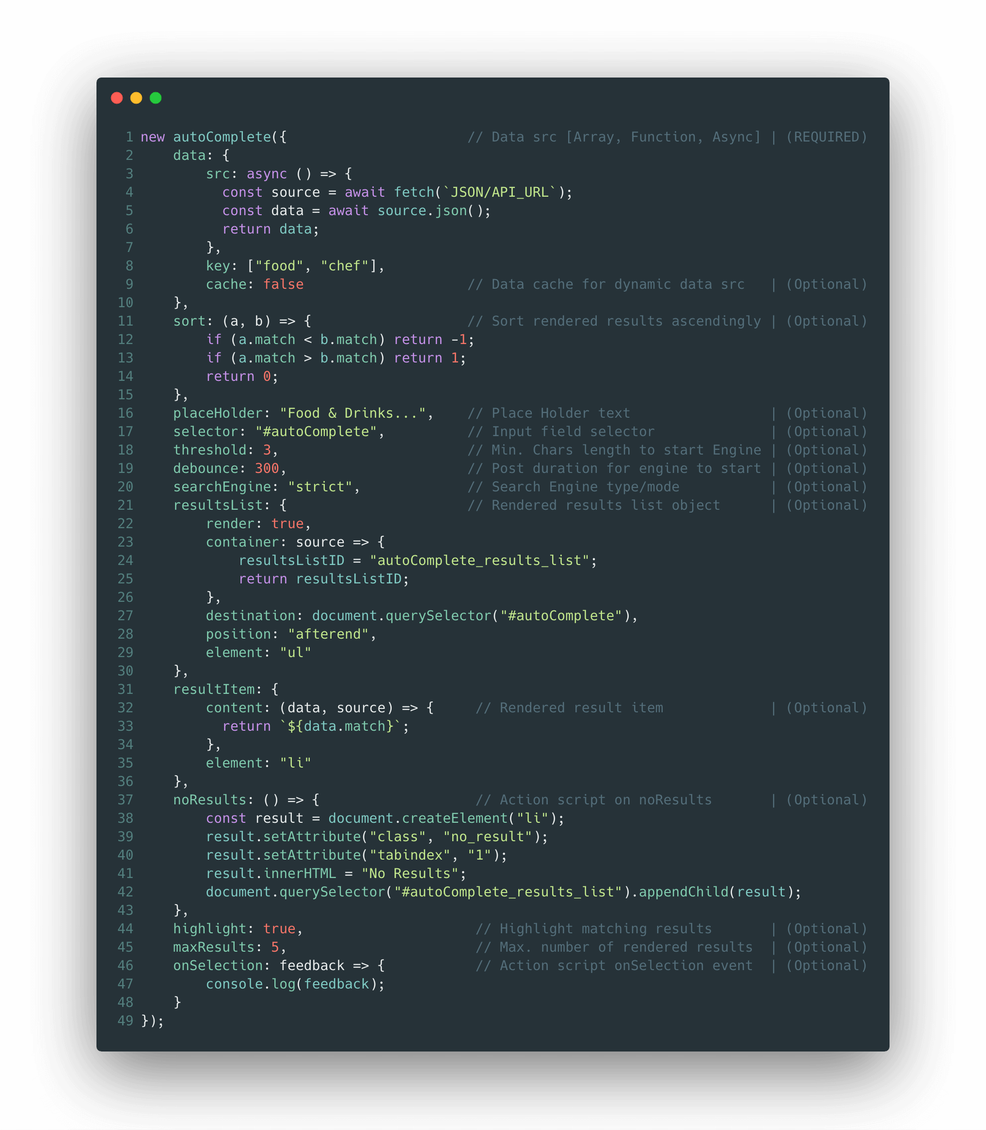
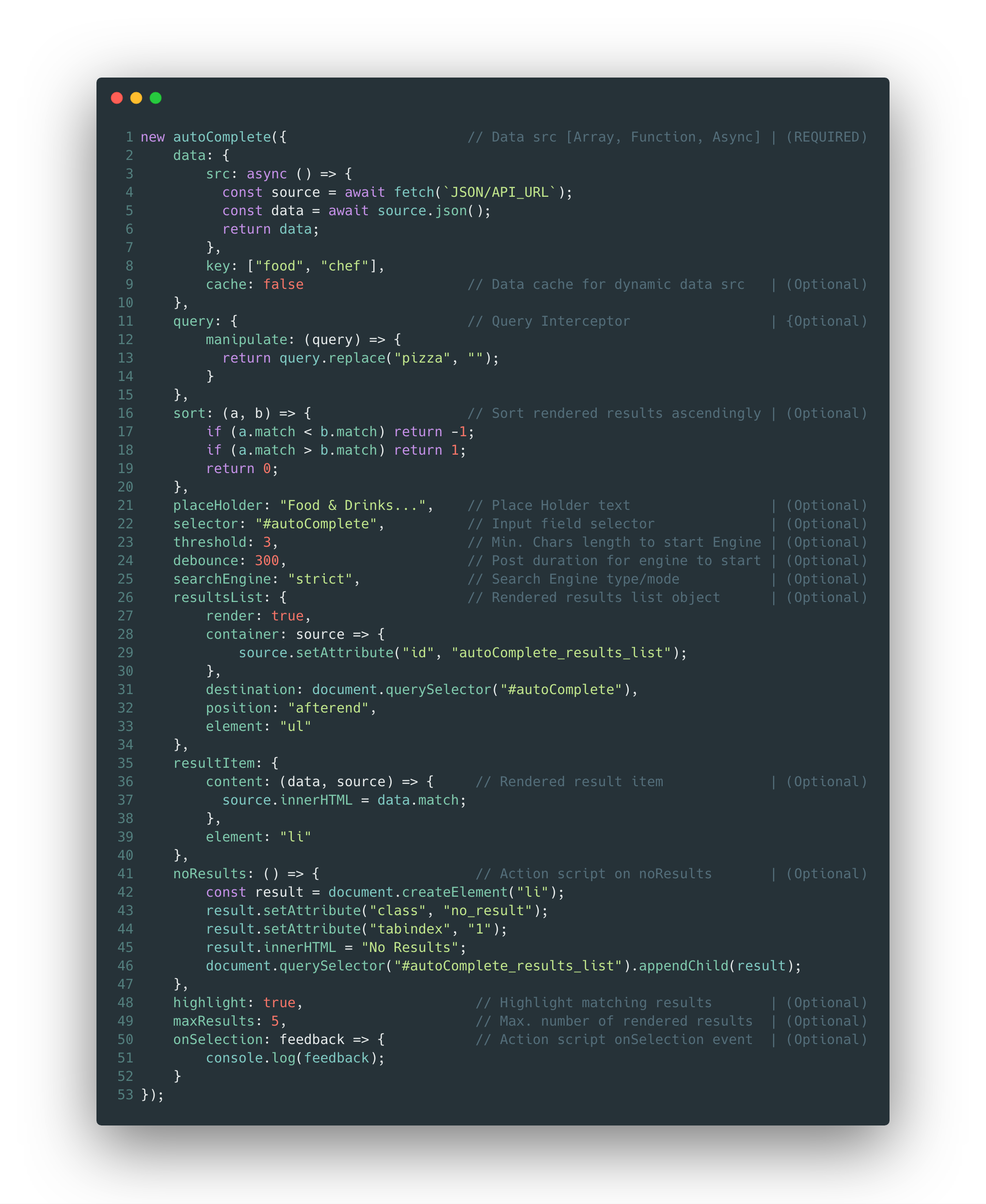
Version 6.0.0 => Release History for details

diff --git a/dist/js/autoComplete.min.js b/dist/js/autoComplete.min.js
@@ -1,1 +1,1 @@
-var a,b;a=this,b=function(){"use strict";function s(e,t){for(var n=0;n<t.length;n++){var s=t[n];s.enumerable=s.enumerable||!1,s.configurable=!0,"value"in s&&(s.writable=!0),Object.defineProperty(e,s.key,s)}}function l(e){return"string"==typeof e?document.querySelector(e):e()}function a(e){return e.innerHTML=""}function e(e,t){t=t||{bubbles:!1,cancelable:!1,detail:void 0};var n=document.createEvent("CustomEvent");return n.initCustomEvent(e,t.bubbles,t.cancelable,t.detail),n}var u="data-result",n="autoComplete_results_list",c="autoComplete_result",t="autoComplete_highlighted",o=l,i=function(e){var t=document.createElement(e.element);return t.setAttribute("id",n),e.container&&e.container(t),e.destination.insertAdjacentElement(e.position,t),t},h=function(e){return"<span class=".concat(t,">").concat(e,"</span>")},r=function(i,r,o){r.forEach(function(e,t){var n=document.createElement(o.element),s=r[t].value[e.key]||r[t].value;n.setAttribute(u,s),n.setAttribute("class",c),n.setAttribute("tabindex","1"),o.content?o.content(e,n):n.innerHTML=e.match||e,i.appendChild(n)})},d=function(e,n){var s=l(e),i=n.firstChild;document.onkeydown=function(e){var t=document.activeElement;switch(e.keyCode){case 38:t!==i&&t!==s?t.previousSibling.focus():t===i&&s.focus();break;case 40:t===s&&0<n.childNodes.length?i.focus():t!==n.lastChild&&t.nextSibling.focus()}}},f=a,m=function(n,s,i,r){var o=s.querySelectorAll(".".concat(c));Object.keys(o).forEach(function(t){["mousedown","keydown"].forEach(function(e){o[t].addEventListener(e,function(t){"mousedown"!==e&&13!==t.keyCode&&39!==t.keyCode||(i({event:t,query:l(n)instanceof HTMLInputElement?l(n).value:l(n).innerHTML,matches:r.matches,results:r.list.map(function(e){return e.value}),selection:r.list.find(function(e){return(e.value[e.key]||e.value)===t.target.closest(".".concat(c)).getAttribute(u)})}),a(s))})})})};e.prototype=window.Event.prototype;var p={CustomEventWrapper:"function"==typeof window.CustomEvent&&window.CustomEvent||e,initElementClosestPolyfill:function(){Element.prototype.matches||(Element.prototype.matches=Element.prototype.msMatchesSelector||Element.prototype.webkitMatchesSelector),Element.prototype.closest||(Element.prototype.closest=function(e){var t=this;do{if(t.matches(e))return t;t=t.parentElement||t.parentNode}while(null!==t&&1===t.nodeType);return null})}};return function(){function t(e){!function(e,t){if(!(e instanceof t))throw new TypeError("Cannot call a class as a function")}(this,t),this.selector=e.selector||"#autoComplete",this.data={src:function(){return"function"==typeof e.data.src?e.data.src():e.data.src},key:e.data.key,cache:void 0===e.data.cache||e.data.cache},this.query=e.query,this.searchEngine="loose"===e.searchEngine?"loose":"strict",this.threshold=e.threshold||0,this.debounce=e.debounce||0,this.resultsList={render:!(!e.resultsList||!e.resultsList.render)&&e.resultsList.render,view:e.resultsList&&e.resultsList.render?i({container:!(!e.resultsList||!e.resultsList.container)&&e.resultsList.container,destination:e.resultsList&&e.resultsList.destination?e.resultsList.destination:o(this.selector),position:e.resultsList&&e.resultsList.position?e.resultsList.position:"afterend",element:e.resultsList&&e.resultsList.element?e.resultsList.element:"ul"}):null},this.sort=e.sort||!1,this.placeHolder=e.placeHolder,this.maxResults=e.maxResults||5,this.resultItem={content:!(!e.resultItem||!e.resultItem.content)&&e.resultItem.content,element:e.resultItem&&e.resultItem.element?e.resultItem.element:"li"},this.noResults=e.noResults,this.highlight=e.highlight||!1,this.onSelection=e.onSelection,this.dataSrc,this.init()}return function(e,t,n){t&&s(e.prototype,t),n&&s(e,n)}(t,[{key:"search",value:function(e,t){var n=this.highlight,s=t.toLowerCase();if("loose"===this.searchEngine){e=e.replace(/ /g,"");for(var i=[],r=0,o=0;o<s.length;o++){var l=t[o];r<e.length&&s[o]===e[r]&&(l=n?h(l):l,r++),i.push(l)}return r===e.length&&i.join("")}if(s.includes(e))return e=new RegExp("".concat(e),"i").exec(t),n?t.replace(e,h(e)):t}},{key:"listMatchedResults",value:function(n){var u=this;return new Promise(function(e){var a=[];n.filter(function(n,s){function e(e){var t=u.search(u.queryValue,n[e]||n);t&&e?a.push({key:e,index:s,match:t,value:n}):t&&!e&&a.push({index:s,match:t,value:n})}if(u.data.key){var t=!0,i=!1,r=void 0;try{for(var o,l=u.data.key[Symbol.iterator]();!(t=(o=l.next()).done);t=!0){e(o.value)}}catch(e){i=!0,r=e}finally{try{t||null==l.return||l.return()}finally{if(i)throw r}}}else e()});var t=u.sort?a.sort(u.sort).slice(0,u.maxResults):a.slice(0,u.maxResults);return u.resultsList.render&&(r(u.resultsList.view,t,u.resultItem),d(u.selector,u.resultsList.view)),e({matches:a.length,list:t})})}},{key:"ignite",value:function(){var a=this,u=this.selector,c=o(u),h=this.query,e=this.placeHolder;e&&c.setAttribute("placeholder",e);function n(t){function n(e,t){c.dispatchEvent(new p.CustomEventWrapper("autoComplete",{bubbles:!0,detail:{event:e,query:s,matches:t?t.matches:null,results:t?t.list:null},cancelable:!0}))}var s=c instanceof HTMLInputElement?c.value.toLowerCase():c.innerHTML.toLowerCase(),e=a.queryValue=h?h(s):s,i=a.resultsList.render,r=e.length>a.threshold&&e.replace(/ /g,"").length;if(i){var o=a.onSelection,l=a.resultsList.view;f(l);r?a.listMatchedResults(a.dataSrc).then(function(e){n(t,e),0===e.list.length&&a.noResults&&a.resultsList.render?a.noResults():o&&m(u,l,o,e)}):n(t)}else!i&&r?a.listMatchedResults(a.dataSrc).then(function(e){n(t,e)}):n(t)}var s,i,r;c.addEventListener("keyup",(s=function(t){if(a.data.cache)n(t);else{var e=a.data.src();e instanceof Promise?e.then(function(e){a.dataSrc=e,n(t)}):(a.dataSrc=e,n(t))}},i=this.debounce,function(){var e=this,t=arguments;clearTimeout(r),r=setTimeout(function(){return s.apply(e,t)},i)}))}},{key:"init",value:function(){var t=this,e=this.data.src();e instanceof Promise?e.then(function(e){t.dataSrc=e,t.ignite()}):(this.dataSrc=e,this.ignite()),p.initElementClosestPolyfill()}}]),t}()},"object"==typeof exports&&"undefined"!=typeof module?module.exports=b():"function"==typeof define&&define.amd?define(b):a.autoComplete=b();
+var a,b;a=this,b=function(){"use strict";function s(e,t){for(var n=0;n<t.length;n++){var s=t[n];s.enumerable=s.enumerable||!1,s.configurable=!0,"value"in s&&(s.writable=!0),Object.defineProperty(e,s.key,s)}}function l(e){return"string"==typeof e?document.querySelector(e):e()}function a(e){return e.innerHTML=""}function e(e,t){t=t||{bubbles:!1,cancelable:!1,detail:void 0};var n=document.createEvent("CustomEvent");return n.initCustomEvent(e,t.bubbles,t.cancelable,t.detail),n}var u="data-result",n="autoComplete_results_list",c="autoComplete_result",t="autoComplete_highlighted",o=l,i=function(e){var t=document.createElement(e.element);return t.setAttribute("id",n),e.container&&e.container(t),e.destination.insertAdjacentElement(e.position,t),t},h=function(e){return"<span class=".concat(t,">").concat(e,"</span>")},r=function(i,r,o){r.forEach(function(e,t){var n=document.createElement(o.element),s=r[t].value[e.key]||r[t].value;n.setAttribute(u,s),n.setAttribute("class",c),n.setAttribute("tabindex","1"),o.content?o.content(e,n):n.innerHTML=e.match||e,i.appendChild(n)})},d=function(e,n){var s=l(e),i=n.firstChild;document.onkeydown=function(e){var t=document.activeElement;switch(e.keyCode){case 38:t!==i&&t!==s?t.previousSibling.focus():t===i&&s.focus();break;case 40:t===s&&0<n.childNodes.length?i.focus():t!==n.lastChild&&t.nextSibling.focus()}}},f=a,m=function(n,s,i,r){var o=s.querySelectorAll(".".concat(c));Object.keys(o).forEach(function(t){["mousedown","keydown"].forEach(function(e){o[t].addEventListener(e,function(t){"mousedown"!==e&&13!==t.keyCode&&39!==t.keyCode||(i({event:t,query:l(n)instanceof HTMLInputElement?l(n).value:l(n).innerHTML,matches:r.matches,results:r.list.map(function(e){return e.value}),selection:r.list.find(function(e){return(e.value[e.key]||e.value)===t.target.closest(".".concat(c)).getAttribute(u)})}),a(s))})})})};e.prototype=window.Event.prototype;var p={CustomEventWrapper:"function"==typeof window.CustomEvent&&window.CustomEvent||e,initElementClosestPolyfill:function(){Element.prototype.matches||(Element.prototype.matches=Element.prototype.msMatchesSelector||Element.prototype.webkitMatchesSelector),Element.prototype.closest||(Element.prototype.closest=function(e){var t=this;do{if(t.matches(e))return t;t=t.parentElement||t.parentNode}while(null!==t&&1===t.nodeType);return null})}};return function(){function t(e){!function(e,t){if(!(e instanceof t))throw new TypeError("Cannot call a class as a function")}(this,t),this.selector=e.selector||"#autoComplete",this.data={src:function(){return"function"==typeof e.data.src?e.data.src():e.data.src},key:e.data.key,cache:void 0===e.data.cache||e.data.cache},this.query=e.query,this.searchEngine="loose"===e.searchEngine?"loose":"strict",this.threshold=e.threshold||0,this.debounce=e.debounce||0,this.resultsList={render:!(!e.resultsList||!e.resultsList.render)&&e.resultsList.render,view:e.resultsList&&e.resultsList.render?i({container:!(!e.resultsList||!e.resultsList.container)&&e.resultsList.container,destination:e.resultsList&&e.resultsList.destination?e.resultsList.destination:o(this.selector),position:e.resultsList&&e.resultsList.position?e.resultsList.position:"afterend",element:e.resultsList&&e.resultsList.element?e.resultsList.element:"ul"}):null},this.sort=e.sort||!1,this.placeHolder=e.placeHolder,this.maxResults=e.maxResults||5,this.resultItem={content:!(!e.resultItem||!e.resultItem.content)&&e.resultItem.content,element:e.resultItem&&e.resultItem.element?e.resultItem.element:"li"},this.noResults=e.noResults,this.highlight=e.highlight||!1,this.onSelection=e.onSelection,this.dataSrc,this.init()}return function(e,t,n){t&&s(e.prototype,t),n&&s(e,n)}(t,[{key:"search",value:function(e,t){var n=this.highlight,s=t.toLowerCase();if("loose"===this.searchEngine){e=e.replace(/ /g,"");for(var i=[],r=0,o=0;o<s.length;o++){var l=t[o];r<e.length&&s[o]===e[r]&&(l=n?h(l):l,r++),i.push(l)}return r===e.length&&i.join("")}if(s.includes(e))return e=new RegExp("".concat(e),"i").exec(t),n?t.replace(e,h(e)):t}},{key:"listMatchedResults",value:function(n){var u=this;return new Promise(function(e){var a=[];n.filter(function(n,s){function e(e){var t=u.search(u.queryValue,n[e]||n);t&&e?a.push({key:e,index:s,match:t,value:n}):t&&!e&&a.push({index:s,match:t,value:n})}if(u.data.key){var t=!0,i=!1,r=void 0;try{for(var o,l=u.data.key[Symbol.iterator]();!(t=(o=l.next()).done);t=!0){e(o.value)}}catch(e){i=!0,r=e}finally{try{t||null==l.return||l.return()}finally{if(i)throw r}}}else e()});var t=u.sort?a.sort(u.sort).slice(0,u.maxResults):a.slice(0,u.maxResults);return u.resultsList.render&&(r(u.resultsList.view,t,u.resultItem),d(u.selector,u.resultsList.view)),e({matches:a.length,list:t})})}},{key:"ignite",value:function(){var a=this,u=this.selector,c=o(u),h=this.query,e=this.placeHolder;e&&c.setAttribute("placeholder",e);function n(t){function n(e,t){c.dispatchEvent(new p.CustomEventWrapper("autoComplete",{bubbles:!0,detail:{event:e,input:s,query:i,matches:t?t.matches:null,results:t?t.list:null},cancelable:!0}))}var s=c instanceof HTMLInputElement?c.value.toLowerCase():c.innerHTML.toLowerCase(),i=a.queryValue=h&&h.manipulate?h.manipulate(s):s,e=a.resultsList.render,r=i.length>a.threshold&&i.replace(/ /g,"").length;if(e){var o=a.onSelection,l=a.resultsList.view;f(l);r?a.listMatchedResults(a.dataSrc).then(function(e){n(t,e),0===e.list.length&&a.noResults&&a.resultsList.render?a.noResults():o&&m(u,l,o,e)}):n(t)}else!e&&r?a.listMatchedResults(a.dataSrc).then(function(e){n(t,e)}):n(t)}var s,i,r;c.addEventListener("keyup",(s=function(t){if(a.data.cache)n(t);else{var e=a.data.src();e instanceof Promise?e.then(function(e){a.dataSrc=e,n(t)}):(a.dataSrc=e,n(t))}},i=this.debounce,function(){var e=this,t=arguments;clearTimeout(r),r=setTimeout(function(){return s.apply(e,t)},i)}))}},{key:"init",value:function(){var t=this,e=this.data.src();e instanceof Promise?e.then(function(e){t.dataSrc=e,t.ignite()}):(this.dataSrc=e,this.ignite()),p.initElementClosestPolyfill()}}]),t}()},"object"==typeof exports&&"undefined"!=typeof module?module.exports=b():"function"==typeof define&&define.amd?define(b):a.autoComplete=b();

diff --git a/dist/js/autoComplete.js b/dist/js/autoComplete.js
@@ -314,7 +314,7 @@
         };
         var exec = function exec(event) {
           var inputValue = input instanceof HTMLInputElement ? input.value.toLowerCase() : input.innerHTML.toLowerCase();
-          var queryValue = _this2.queryValue = queryInterceptor ? queryInterceptor(inputValue) : inputValue;
+          var queryValue = _this2.queryValue = queryInterceptor && queryInterceptor.manipulate ? queryInterceptor.manipulate(inputValue) : inputValue;
           var renderResultsList = _this2.resultsList.render;
           var triggerCondition = queryValue.length > _this2.threshold && queryValue.replace(/ /g, "").length;
           var eventEmitter = function eventEmitter(event, results) {
@@ -322,7 +322,8 @@
               bubbles: true,
               detail: {
                 event: event,
-                query: inputValue,
+                input: inputValue,
+                query: queryValue,
                 matches: results ? results.matches : null,
                 results: results ? results.list : null
               },

diff --git a/docs/demo/index.html b/docs/demo/index.html
@@ -53,7 +53,7 @@
 		<meta name="msapplication-TileColor" content="#ffffff">
 		<meta name="msapplication-TileImage" content="/ms-icon-144x144.png">
 		<meta name="theme-color" content="#ffffff">
-		<link rel="stylesheet" type="text/css" media="screen" href="https://cdn.jsdelivr.net/npm/@tarekraafat/autocomplete.js@5.3.0/dist/css/autoComplete.min.css">
+		<link rel="stylesheet" type="text/css" media="screen" href="https://cdn.jsdelivr.net/npm/@tarekraafat/autocomplete.js@6.0.0/dist/css/autoComplete.min.css">
 		<link rel="stylesheet" type="text/css" media="screen" href="./css/main.css">
 		<link href="https://fonts.googleapis.com/css?family=PT+Sans" rel="stylesheet">
 	</head>
@@ -118,7 +118,7 @@
 				</div>
 			</footer>
 		</div>
-		<script src="https://cdn.jsdelivr.net/npm/@tarekraafat/autocomplete.js@5.3.0/dist/js/autoComplete.min.js"></script>
+		<script src="https://cdn.jsdelivr.net/npm/@tarekraafat/autocomplete.js@6.0.0/dist/js/autoComplete.min.js"></script>
 		<script src="./js/index.js"></script>
 	</body>
 

diff --git a/src/models/autoComplete.js b/src/models/autoComplete.js
@@ -237,7 +237,8 @@ export default class autoComplete {
       const inputValue =
         input instanceof HTMLInputElement ? input.value.toLowerCase() : input.innerHTML.toLowerCase();
       // Intercept query value
-      const queryValue = this.queryValue = queryInterceptor ? queryInterceptor(inputValue) : inputValue;
+      const queryValue = this.queryValue = queryInterceptor && queryInterceptor.manipulate
+        ? queryInterceptor.manipulate(inputValue) : inputValue;
       // resultsList Render Switch
       const renderResultsList = this.resultsList.render;
       // App triggering condition
@@ -251,7 +252,8 @@ export default class autoComplete {
             bubbles: true,
             detail: {
               event,
-              query: inputValue,
+              input: inputValue,
+              query: queryValue,
               matches: results ? results.matches : null,
               results: results? results.list : null,
             },

diff --git a/dist/js/index.js b/dist/js/index.js
@@ -1,6 +1,6 @@
 // autoComplete.js on type event emitter
 document.querySelector("#autoComplete").addEventListener("autoComplete", function(event) {
-  console.log(event.detail.results);
+  console.log(event.detail);
 });
 // The autoComplete.js Engine instance creator
 const autoCompletejs = new autoComplete({
@@ -25,11 +25,9 @@ const autoCompletejs = new autoComplete({
     }
     return 0;
   },
-  query: function(query) {
-    if (query.includes("pizza")) {
-      return query.replace("pizza", "");
-    } else {
-      return query;
+  query: {
+    manipulate: function(query) {
+      return query.replace("pizza", "burger");
     }
   },
   placeHolder: "Food & Drinks",

diff --git a/docs/README.md b/docs/README.md
@@ -7,7 +7,7 @@
 [![](https://data.jsdelivr.com/v1/package/gh/TarekRaafat/autoComplete.js/badge)](https://www.jsdelivr.com/package/gh/TarekRaafat/autoComplete.js)
 [![](https://data.jsdelivr.com/v1/package/npm/@tarekraafat/autocomplete.js/badge)](https://www.jsdelivr.com/package/npm/@tarekraafat/autocomplete.js)
 ![\[Zero Dependencies\]()](https://img.shields.io/badge/Dependencies-0-blue.svg)
-![\[Size\]()](https://img.shields.io/badge/Size-5%20KB-green.svg)
+![\[Size\]()](https://img.shields.io/badge/Size-6%20KB-green.svg)
 [![Open Source Love](https://badges.frapsoft.com/os/v1/open-source.svg?v=103)](https://github.com/TarekRaafat/autoComplete.js)
 
 <br>
@@ -15,7 +15,7 @@
 
 <h1>autoComplete.js</h1>
 
-> Simple autocomplete pure vanilla Javascript library. <a href="https://tarekraafat.github.io/autoComplete.js/demo/" target="\_blank">:rocket: Live Demo</a> **v5.3**
+> Simple autocomplete pure vanilla Javascript library. <a href="https://tarekraafat.github.io/autoComplete.js/demo/" target="\_blank">:rocket: Live Demo</a> **v6.0**
 
 autoComplete.js is a simple pure vanilla Javascript library that's progressively designed for speed, high versatility and seamless integration with wide range of projects & systems, made for users and developers in mind.
 
@@ -68,13 +68,13 @@ npm run build
 `CSS`
 
 ```html
-<link rel="stylesheet" href="https://cdn.jsdelivr.net/npm/@tarekraafat/autocomplete.js@5.3.0/dist/css/autoComplete.min.css">
+<link rel="stylesheet" href="https://cdn.jsdelivr.net/npm/@tarekraafat/autocomplete.js@6.0.0/dist/css/autoComplete.min.css">
 ```
 
 `JS`
 
 ```html
-<script src="https://cdn.jsdelivr.net/npm/@tarekraafat/autocomplete.js@5.3.0/dist/js/autoComplete.min.js"></script>
+<script src="https://cdn.jsdelivr.net/npm/@tarekraafat/autocomplete.js@6.0.0/dist/js/autoComplete.min.js"></script>
 ```
 
 -   <img src="./img/logos/html_logo.png" alt="HTML Logo" width="40px"> HTML Local load
@@ -122,7 +122,7 @@ const autoComplete = require("@tarekraafat/autocomplete.js/dist/js/autoComplete"
 ```html
 <link rel="stylesheet" href="./css/autoComplete.css">
 OR
-<link rel="stylesheet" href="https://cdn.jsdelivr.net/npm/@tarekraafat/autocomplete.js@5.3.0/dist/css/autoComplete.min.css">
+<link rel="stylesheet" href="https://cdn.jsdelivr.net/npm/@tarekraafat/autocomplete.js@6.0.0/dist/css/autoComplete.min.css">
 ```
 
 2.  Assign the default `id` value `"autoComplete"` to the desired input field or use any custom `id/class` and configure the API selector accordingly in `Step 4`
@@ -137,7 +137,7 @@ OR
 <script src="./js/autoComplete.min.js"></script>
 <script src="./js/index.js"></script>
 OR
-<script src="https://cdn.jsdelivr.net/npm/@tarekraafat/autocomplete.js@5.3.0/dist/js/autoComplete.min.js"></script>
+<script src="https://cdn.jsdelivr.net/npm/@tarekraafat/autocomplete.js@6.0.0/dist/js/autoComplete.min.js"></script>
 <script src="./js/index.js"></script>
 ```
 
@@ -158,7 +158,12 @@ new autoComplete({
 		},
 		key: ["title"],
 		cache: false
-	},
+  },
+  query: {                               // Query Interceptor                 | (Optional)
+        manipulate: (query) => {
+          return query.replace("pizza", "burger");
+        }
+  },
 	sort: (a, b) => {				    // Sort rendered results ascendingly | (Optional)
 		if (a.match < b.match) return -1;
 	    if (a.match > b.match) return 1;
@@ -207,6 +212,7 @@ new autoComplete({
 | Keys       | Description                                                      | Values                                                                                                                                                                                                                                                                                                                 | Default                                                                                                    |
 | -------------- | ---------------------------------------------------------------- | ---------------------------------------------------------------------------------------------------------------------------------------------------------------------------------------------------------------------------------------------------------------------------------------------------------------------- | ---------------------------------------------------------------------------------------------------------- |
 | `data`         | Data Source, Data Key & Data Caching                                          | **1- src**: <br> - `Array` of `Strings` / `Objects`<br>**OR**<br> - `Function` => `Array` of `Strings` / `Objects` <br> **2- key**: <br>- `Array` of `Strings`<br>**Required** if `src` is `Object`, for search to point to desired `keys` <br> **3- Cache**: <br> - `True` for static data `src` <br> - `False` for dynamic data `src` "API"                                              | Data `src` **REQUIRED**                                                                   |
+| `query`         |  Query Interceptor  | **-** `Object` with 1 method<br> 1- manipulate: `Function` with (query) argument | Raw `Input` |
 | `sort`         | Sort rendered results                                            | `Function`                                                                                                                                                                                                                                                                                                             | Blank / Empty **(Random Results)**                                                                         |
 | `placeHolder`  | Place Holder text                                                | `String`                                                                                                                                                                                                                                                                                                               | Blank / Empty                                                                                              |
 | `selector`     | Input field selector                                             | **-** `String` `id`/`class` <br>**OR**<br> **-** `Function` ( ) =>  `document.querySelector("")`                                                                                                                                                                                                                       | `"#autoComplete"`                                                                                          |
@@ -262,7 +268,7 @@ it with [autoComplete.js][so tag].
 
 * * *
 
-## 5. What's New in v5.3?
+## 5. What's New in v6.0?
 
 Check out <a href="#/releases?id=versioning">Releases</a> Information :sparkles:
 
@@ -288,7 +294,8 @@ Check out <a href="#/releases?id=versioning">Releases</a> Information :sparkles:
 -   [x] Multiple searchable `keys` for data `src`
 -   [x] Event emitter on input field events
 -   [x] Handling large data sets
--   [ ] Event emitter fires on cleared empty input field state
+-   [x] Event emitter fires on cleared empty input field state
+-   [x] `Query` Interception & Manipulation
 -   [ ] Automatic deep search over all keys in multiple nested object data source
 -   [ ] Improve `Promise` usage for external data source handling
 -   [ ] Add `IndexedDB` for large data sets handling & offline usage

diff --git a/README.md b/README.md
@@ -7,7 +7,7 @@
 [![](https://data.jsdelivr.com/v1/package/gh/TarekRaafat/autoComplete.js/badge)](https://www.jsdelivr.com/package/gh/TarekRaafat/autoComplete.js)
 [![](https://data.jsdelivr.com/v1/package/npm/@tarekraafat/autocomplete.js/badge)](https://www.jsdelivr.com/package/npm/@tarekraafat/autocomplete.js)
 ![\[Zero Dependencies\]()](https://img.shields.io/badge/Dependencies-0-blue.svg)
-![\[Size\]()](https://img.shields.io/badge/Size-5%20KB-green.svg)
+![\[Size\]()](https://img.shields.io/badge/Size-6%20KB-green.svg)
 [![Open Source Love](https://badges.frapsoft.com/os/v1/open-source.svg?v=103)](https://github.com/TarekRaafat/autoComplete.js)
 
 <br>
@@ -20,7 +20,7 @@
 <br>
 <br>
 
-> Simple autocomplete pure vanilla Javascript library. <a href="https://tarekraafat.github.io/autoComplete.js/demo/" target="\_blank">:rocket: Live Demo</a> **v5.3**
+> Simple autocomplete pure vanilla Javascript library. <a href="https://tarekraafat.github.io/autoComplete.js/demo/" target="\_blank">:rocket: Live Demo</a> **v6.0**
 
 autoComplete.js is a simple pure vanilla Javascript library that's progressively designed for speed, high versatility and seamless integration with wide range of projects & systems, made for users and developers in mind.
 
@@ -53,13 +53,13 @@ git clone https://github.com/TarekRaafat/autoComplete.js.git
 `CSS`
 
 ```html
-<link rel="stylesheet" href="https://cdn.jsdelivr.net/npm/@tarekraafat/autocomplete.js@5.3.0/dist/css/autoComplete.min.css">
+<link rel="stylesheet" href="https://cdn.jsdelivr.net/npm/@tarekraafat/autocomplete.js@6.0.0/dist/css/autoComplete.min.css">
 ```
 
 `JS`
 
 ```html
-<script src="https://cdn.jsdelivr.net/npm/@tarekraafat/autocomplete.js@5.3.0/dist/js/autoComplete.min.js"></script>
+<script src="https://cdn.jsdelivr.net/npm/@tarekraafat/autocomplete.js@6.0.0/dist/js/autoComplete.min.js"></script>
 ```
 
 -   <a href="https://www.npmjs.com/package/@tarekraafat/autocomplete.js">npm</a> install `(Node Package Manager)`

diff --git a/docs/_coverpage.md b/docs/_coverpage.md
@@ -2,7 +2,7 @@
 	<img src="./img/autoComplete.js.svg" alt= "autoComplete.js Logo" style="padding-bottom: 50px; width: 250px;">
 </a>
 
-> Simple autocomplete pure vanilla Javascript library. <a href="https://tarekraafat.github.io/autoComplete.js/demo/" target="\_blank">Live Demo</a> **v5.3**
+> Simple autocomplete pure vanilla Javascript library. <a href="https://tarekraafat.github.io/autoComplete.js/demo/" target="\_blank">Live Demo</a> **v6.0**
 
 autoComplete.js is a simple pure vanilla Javascript library that's progressively designed for speed,<br>high versatility and seamless integration with wide range of projects & systems.
 

diff --git a/docs/releases.md b/docs/releases.md
@@ -26,7 +26,15 @@ Release flags:
 
 ## Release Notes
 
-- v5.3.0 :sparkles:
+- v6.0.0 :sparkles:
+  - `CustomEvent` & `Closest` method IE compatibility (Thanks @g-viet)
+  - Query interception (Thanks @barns101)
+  - Simplified `resultsList` & `resultItem`
+  - `EventEmitter` fires on clearing input field
+  - `EventEmitter` now has `input` method for row user’s input
+  - `EventEmitter` now has `query` method for intercepted user’s input
+
+- v5.3.0
   - Get results from `eventEmitter` without rendering list through `resultsList.render` API
   - EventEmitter name `type` changed to `autoComplete` `[Changed]`
 
